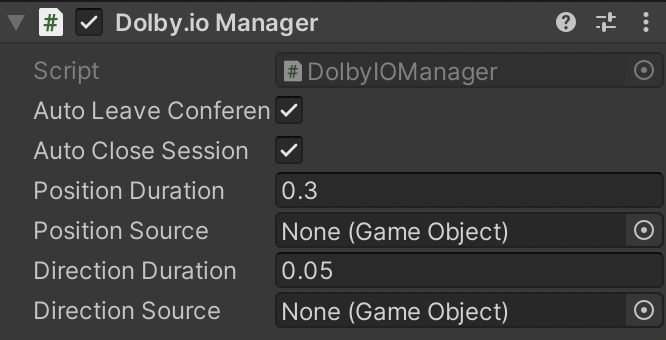
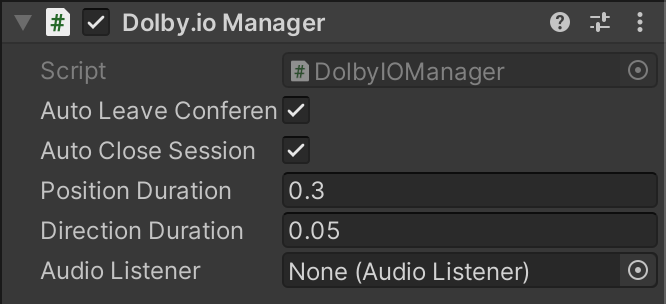
doc update to reflect built-in sample

diff --git a/docs/documentation/unity/visualscripting/tutorials/initialization.md b/docs/documentation/unity/visualscripting/tutorials/initialization.md
@@ -1,6 +1,6 @@
 ## Initialization
 
-This guide demonstrates how to initialize, authenticate, and connect to a demo conference. The demo conference has several bots injecting audio, making it easier to test the connection and project setup during the prototyping phase. 
+This guide demonstrates how to initialize, authenticate, and connect to a demo conference using Visual Scripting. The demo conference has several bots injecting audio, making it easier to test the connection and project setup during the prototyping phase. 
 
 To start fresh, you can create a new project from the Unity Hub. This guide uses the `Third Person` template in Unity version 2021.3.6f1 LTS. 
 
@@ -16,23 +16,19 @@ To add the SDK to Unity, follow these steps:
 1. Select the `AppManager` object and add a `Script Machine` by choosing `Component` > `Visual Scripting` > `Script Machine` from the Unity menu.
 
 2. Add a new script to the `Script Machine` component. In the component, click the `New` button and name and save your new script. Start editing the script with the `Edit Graph` button.
-
     The newly created script graph contains `On Start`, which is the initial triggering event. This event must be explicitly set as `Coroutine` in order for it to work with the `Initialize` node. Select the node and turn on the `Coroutine` check box.
 
 3. Right-clicking on the script background and add these new nodes to the script:
-
-    * `Dolby IO` > `Initialise`
+    * `Dolby IO` > `Initialize`
     * `Dolby IO` > `Demo Conference`
     * `String Literal`, which can be found from a search in the new node window
-        * For a more secure method, add the [Get Token](../visualscripting/nodes.md#get-token) node. See below for more details.
+        * For a more convenient method, add the [Get Token](../nodes.md#get-token) node. See below for more details.
 
-    Add these connections:
-
+4. Add these connections:
     * Connect the `On Start` event to the input trigger of the `Initialize` node
     * Connect the output of the `String` node to the `Access Token` input of the `Initialize` node
     * Connect the `Initialize` event to the input trigger of the `Demo Conference` node
-
-> To keep things simple for now, set the `Spatial Audio` option to `none` in the `Demo Conference` node. This is because unless you have provided your spatial position, the default platform behavior for the spatial audio conference is **no rendering**, which means you will not hear any audio. Setting the `Spatial Audio` flag to `none` informs the platform to always render the audio for the local participant. In the next sections we will explain how to setup the spatial audio conference.
+    * Set `Spatial Audio Style` to `Shared` to use shared scene. 
 
 ## Set up the Client Access Token
 You should have signed up in Dolby.io by now. In the app that is automatically created for you in the Dolby.io dashboard, acquire a temporary Client Access Token and paste it into the `String` literal node. For security reasons, the token you acquired expires after 12 hours. You will have to provide a new token after the expiration.
@@ -42,11 +38,11 @@ The following visual scripting example illustrates how to connect the nodes toge
     <img style="padding:25px 0" src="~/images/samples/demo/string-token-initialize.png" width="450px">
 </div>
 
-Alternatively, you can add the [Get Token](../visualscripting/nodes.md#get-token) node to the graph, and pass the `App Key` and `App Secret` to the node. Connecting the output of the node to the `Access Token` input of the `Initialize` node will generate a client access token from the Unity app and initialize the plugin.
+Alternatively, you can add the [Get Token](../nodes.md#get-token) node to the graph, and pass the `App Key` and `App Secret` to the node. Connecting the output of the node to the `Access Token` input of the `Initialize` node will generate a client access token from the Unity app and initialize the plugin.
 
 > ⚠ Please note that using `Get Token` effectively includes the permanent app credential in your Unity app, which is not safe for production deployment. Please follow our [security best practices](https://docs.dolby.io/communications-apis/docs/guides-client-authentication) and set up a backend server to retrieve a temporary access token on behalf of the Unity app. 
 
-The following visual scripting example illustrates how to connect the nodes together if you decided to use the [Get Token](../visualscripting/nodes.md#get-token) node:
+The following visual scripting example illustrates how to connect the nodes together if you decided to use the [Get Token](../nodes.md#get-token) node:
 <div style="text-align:left">
     <img style="padding:25px 0" src="~/images/samples/demo/get-token-initialize.png" width="450px">
 </div>

diff --git a/docs/documentation/unity/visualscripting/tutorials/remote-participants.md b/docs/documentation/unity/visualscripting/tutorials/remote-participants.md
@@ -6,7 +6,7 @@ Rendering remote participants in the scene is an essential task for building mul
 </div>
 
 ### Participant events
-Once the plugin is successfully connected to the conference, it emits various events that the application can listen to. In this example, we will use the [On Participant Updated Event](../visualscripting/events.md#on-participant-updated), which is emitted whenever the remote participant state changes. This event provides a custom type [Participant](xref:DolbyIO.Comms.Participant) for the application to retrieve the participant information. In your application, you can choose other triggering event based on your needs.
+Once the plugin is successfully connected to the conference, it emits various events that the application can listen to. In this example, we will use the [On Participant Updated Event](../events.md#on-participant-updated), which is emitted whenever the remote participant state changes. This event provides a custom type [Participant](xref:DolbyIO.Comms.Participant) for the application to retrieve the participant information. In your application, you can choose other triggering event based on your needs.
 
 > In order to access Dolby.io Communications SDK custom types from visual scripting, you need to explicitly add them to the visual scripting library. In the Unity editor, click on **Edit** > **Project Settings** > **Visual Scripting**, expand the **Node Library**, click on **+** then add `DolbyIO.Comms.Sdk`. After that, expand **Type Operations**, click on **+**, and then add the `Participant` and `ParticipantInfo` objects. Finally, click on **Regenerate Nodes** to make sure that the node library is updated with the changes. 
 
@@ -14,7 +14,7 @@ Once the plugin is successfully connected to the conference, it emits various ev
 There are several ways to identify a participant in the Dolby.io conference.
 - [participant ID](xref:DolbyIO.Comms.Participant.Id): Dolby.io generated unique identifier in a UUID format.
 - [external ID](xref:DolbyIO.Comms.ParticipantInfo.ExternalId): A free-form string defined by you as a developer to uniquely identify a participant in your application. 
-- [name](xref:DolbyIO.Comms.ParticipantInfo.Name): A free-form string provided during [initialization](../visualscripting/nodes.md#initialize). Dolby.io does not guarantee the name to be unique, which means more than one participant can use the same name to join the conference. For demonstration purposes, we will use the `name` to identify the remote participants in the demo conference.
+- [name](xref:DolbyIO.Comms.ParticipantInfo.Name): A free-form string provided during [initialization](../nodes.md#initialize). Dolby.io does not guarantee the name to be unique, which means more than one participant can use the same name to join the conference. For demonstration purposes, we will use the `name` to identify the remote participants in the demo conference.
 
 There are three bots in the demo conference, their names are:
 

diff --git a/docs/documentation/unity/visualscripting/tutorials/individual-scene.md b/docs/documentation/unity/visualscripting/tutorials/individual-scene.md
@@ -1,0 +1,20 @@
+## Individual scene
+This article demonstrates how to implement an individual spatial scene using visual scripting. 
+
+In the [individual scene](xref:DolbyIO.Comms.SpatialAudioStyle), each client explicitly configures the spatial audio position of every remote participant for themselves. This allows developers to implement more dynamic spatial audio behaviors.
+
+[Set remote player position](../nodes.md#set-remote-player-position) is the node that controls the individual remote participant's spatial audio position. This node must be invoked when the remote participant joins the conference, and when the remote participant moves around in the scene. 
+
+When the local player moves around in the scene, use the [Set local player position](../nodes.md#set-local-player-position) and the [Set local player direction](../nodes.md#set-local-player-direction) nodes to keep the spatial audio rendering coherent with the local user's visual position.
+
+For more information regarding the individual scene, please refer to this [article](https://docs.dolby.io/communications-apis/docs/guides-integrating-individual-spatial-audio).
+
+## Synchronize spatial audio positions
+1. Change the demo conference **Spatial Audio Style** to `individual` in the [Demo Conference](../nodes.md#demo-conference) node.
+2. Insert the [Set remote player position](../nodes.md#set-remote-player-position) node between the [On participant updated event](../events.md#on-participant-updated) and the `Instantiate` node to create the game object, and link the [Set remote participant position](../nodes.md#set-remote-player-position)'s input to the output of the `Select on Flow Branches` node. This effectively synchronizes the bots' visual positions with their spatial audio positions against the local participant's spawn location.
+
+    <div style="text-align:left">
+    <img style="padding:25px 0" src="~/images/samples/demo/set-remote-position.png" width="650px">
+    </div>
+
+3. Run the app. Now, when you move around in the game, you will hear the full spatial audio effect.

diff --git a/docs/documentation/unity/visualscripting/tutorials/shared-scene.md b/docs/documentation/unity/visualscripting/tutorials/shared-scene.md
@@ -1,12 +1,9 @@
 ## Shared scene
-If you followed the previous guides and successfully placed the remote participants in the game, you may have noticed that there is no spatial audio separation for the bots; when the player moves around, the audio of the bots does not change. This is because the demo conference has not been enabled with spatial audio yet. 
-
 Shared scene is built purposely for virtual world use cases to simplify the spatial audio programming model. In this scenario, all participants contribute to the shared scene by setting their positions only. All participants are heard from the positions they set.
 
-For more information regarding the shared scene, please refer to this [article](https://docs.dolby.io/communications-apis/docs/guides-integrating-shared-spatial-audio).
+In shared scene, the plugin automatically maps the local player's position and direction by detecting the Audio Listener in the scene. You can also configure it explicitly in [Dolby.io Manager](../../components/index.md).
 
-## Set up the conference
-Change the demo conference **Spatial Audio Style** to `shared` in the [Demo Conference](../visualscripting/nodes.md#demo-conference) node.
+For more information regarding the shared scene, please refer to this [article](https://docs.dolby.io/communications-apis/docs/guides-integrating-shared-spatial-audio).
 
 > ⓘ If you use a Bluetooth headset, you may experience mono audio and, therefore, not hear the spatial separation. This is because the Bluetooth technology prevents stereo rendering if you also use the built-in microphone at the same time. In order to work around this, simply change the microphone from the system settings menu to another device. 
 

diff --git a/docs/documentation/unity/getting-started/installation.md b/docs/documentation/unity/getting-started/installation.md
@@ -1,7 +1,7 @@
 ## Installation
 
 ### Prerequisites
-- Apple MacOS x64 or Microsoft Windows 10+ x64.
+- Apple MacOS x64/arm64 or Microsoft Windows 10+ x64.
 - A Dolby.io account. If you do not have an account, you can [sign up](https://dolby.io/signup) for a free account.
 - The [client access token](https://docs.dolby.io/communications-apis/docs/overview-developer-tools#client-access-token) copied from the Dolby.io dashboard. To create the token, log into the [Dolby.io dashboard](https://dashboard.dolby.io/), create an application, and navigate to the API keys section.
 - Install `git-lfs` command line tool on your computer if you wish to install directly using the GitHub link.
@@ -11,13 +11,13 @@ You can install the plugin from the Unity Package Manager.
 
 Open the Package Manager from the Unity Editor and click the ➕ icon in the upper left corner.
 
-Option 1. Install from GitHub
+#### Option 1. Install from GitHub
 Select **Add package from git URL..**, enter the URL below
 ```
 https://github.com/DolbyIO/comms-sdk-unity.git
 ```
 
-Option 2. Install from the downloaded package
+#### Option 2. Install from the downloaded package
 
 - Download latest plugin from the [release](https://github.com/DolbyIO/comms-sdk-dotnet/releases) page.
 - Unzip the package into a local folder.
@@ -30,5 +30,3 @@ Option 2. Install from the downloaded package
 >```
 >xattr -d -r com.apple.quarantine .
 >```
-### Apple Silicon
-If you are using Unity from an Apple Silicon Mac (e.g., M1), please be aware that currently the SDK is only distributed as x64 binary for Mac. You need to use the Intel flavor of the Unity Editor.

diff --git a/docs/documentation/unity/getting-started/example.md b/docs/documentation/unity/getting-started/example.md
@@ -1,0 +1,14 @@
+### Built-in Sample
+
+The plugin is shipped with a simple example demonstrating the basic concept of using Spatial Audio APIs.
+
+This example connects the game to the Dolby.io platform, automatically instantiate 3 bots representing remote participants, and inject their audio into the conference. You can move around in the game to get a feel of how the spatial audio sounds like.
+
+- To try out the sample, create a new project using any of the Unity templates
+- Install the plugin from the package manager, then expand the `Samples` section and click on `Import`. This will copy the sample scene into your project. 
+- Go to the `SharedScene` assets folder and drag the `SharedScene` object into the scene list. 
+- Click on `App` then enter the client access token you acquired from Dolby.io dashboard.
+- Under `Audio Listener`, set `Main Camera`, this automatically links the main camera movement to the spatial audio placement controls without writing any code. 
+- Play the game, you should hear the sound now. Use WSAD keys to move around to hear the spatial effect.
+
+<div style="position: relative; padding-bottom: 56.25%; height: 0;"><iframe src="https://www.loom.com/embed/4ce93126fd6f4e54b292f72a6251d2e1" frameborder="0" webkitallowfullscreen mozallowfullscreen allowfullscreen style="position: absolute; top: 0; left: 0; width: 100%; height: 100%;"></iframe></div>

diff --git a/docs/documentation/unity/components/index.md b/docs/documentation/unity/components/index.md
@@ -1,7 +1,7 @@
 ## Components
 ### Dolby.io Manager
 
-The `Dolby.io Manager` is a component required to let you access the functionnalities of the unity plugin. It will also provide some usefull parameters to configure the plugin.
+The `Dolby.io Manager` is a component required to let you access the functionnalities of the Unity plugin. It will also provide some usefull parameters to configure the plugin.
 
 <div style="text-align:left">
     <img style="padding:25px 0" src="~/images/components/dolbyiomanager.png" width="300px">
